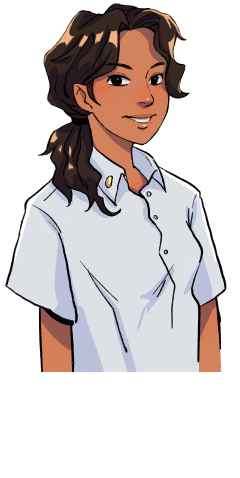
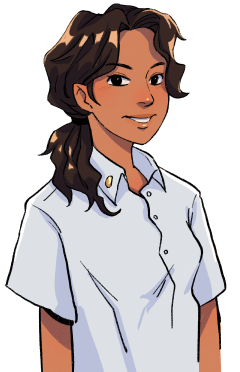
adding slight drop shadow and fixed positioning of onboarding character

diff --git a/src/pages/LandingPage/style.scss b/src/pages/LandingPage/style.scss
@@ -10,8 +10,8 @@
     &--left {
       position: absolute !important;
       left: 0;
-      bottom: 70px;
-      filter: brightness(100%);
+      bottom: 100px;
+      filter: brightness(100%) drop-shadow(0px 0px 10px rgba(0,0,0,0.3));
       -webkit-transition: all 0.5s ease;
       transition: all 0.5s ease;
       &.nonSpeaker {
@@ -23,8 +23,8 @@
     &--right {
       position: absolute !important;
       right: 0;
-      bottom: 70px;
-      filter: brightness(100%);
+      bottom: 100px;
+      filter: brightness(100%) drop-shadow(0px 0px 10px rgba(0,0,0,0.3));
       -webkit-transition: all 0.5s ease;
       transition: all 0.5s ease;
       &.nonSpeaker {

diff --git a/src/pages/LandingPage/OpeningSequence.js b/src/pages/LandingPage/OpeningSequence.js
@@ -108,7 +108,7 @@ const OpeningSequence = () => {
     <Fade  in={true} timeout={500}>
       <div className="ScenePage">        
         <div className="ScenePage__speaker">
-          <img src="/images/cha_nadia_intro.png"  className="ScenePage__speaker--left"/>            
+          <img src="/images/cha_nadia_intro.png"  className="ScenePage__speaker--left" style={{ bottom: '160px' }} />            
         </div>
       <Box className={classes.paragraphWrapper}  height="100%">
           <div>
